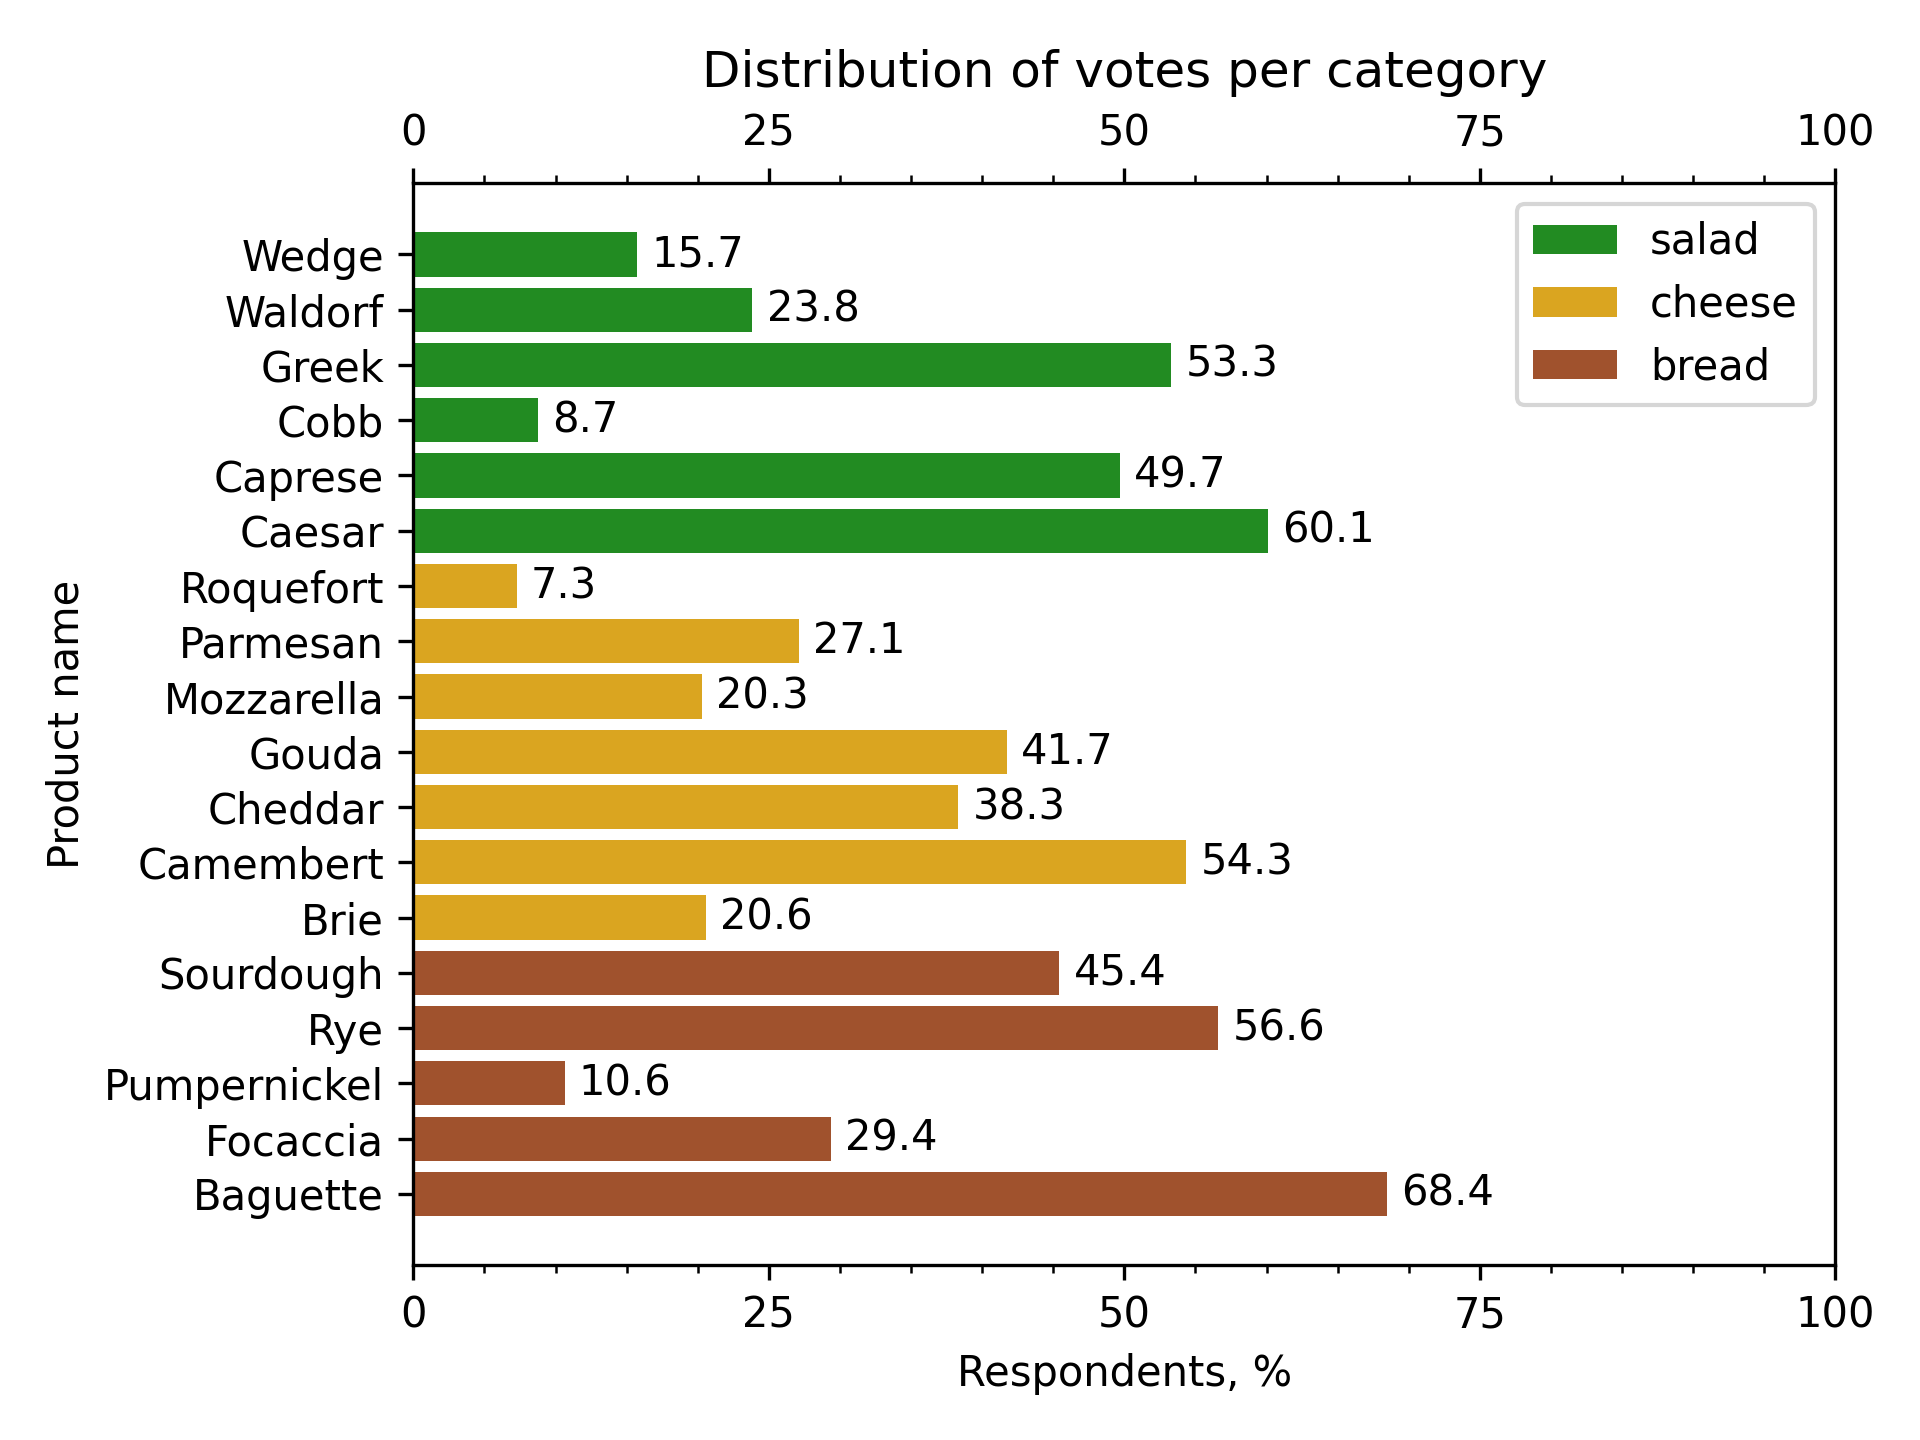
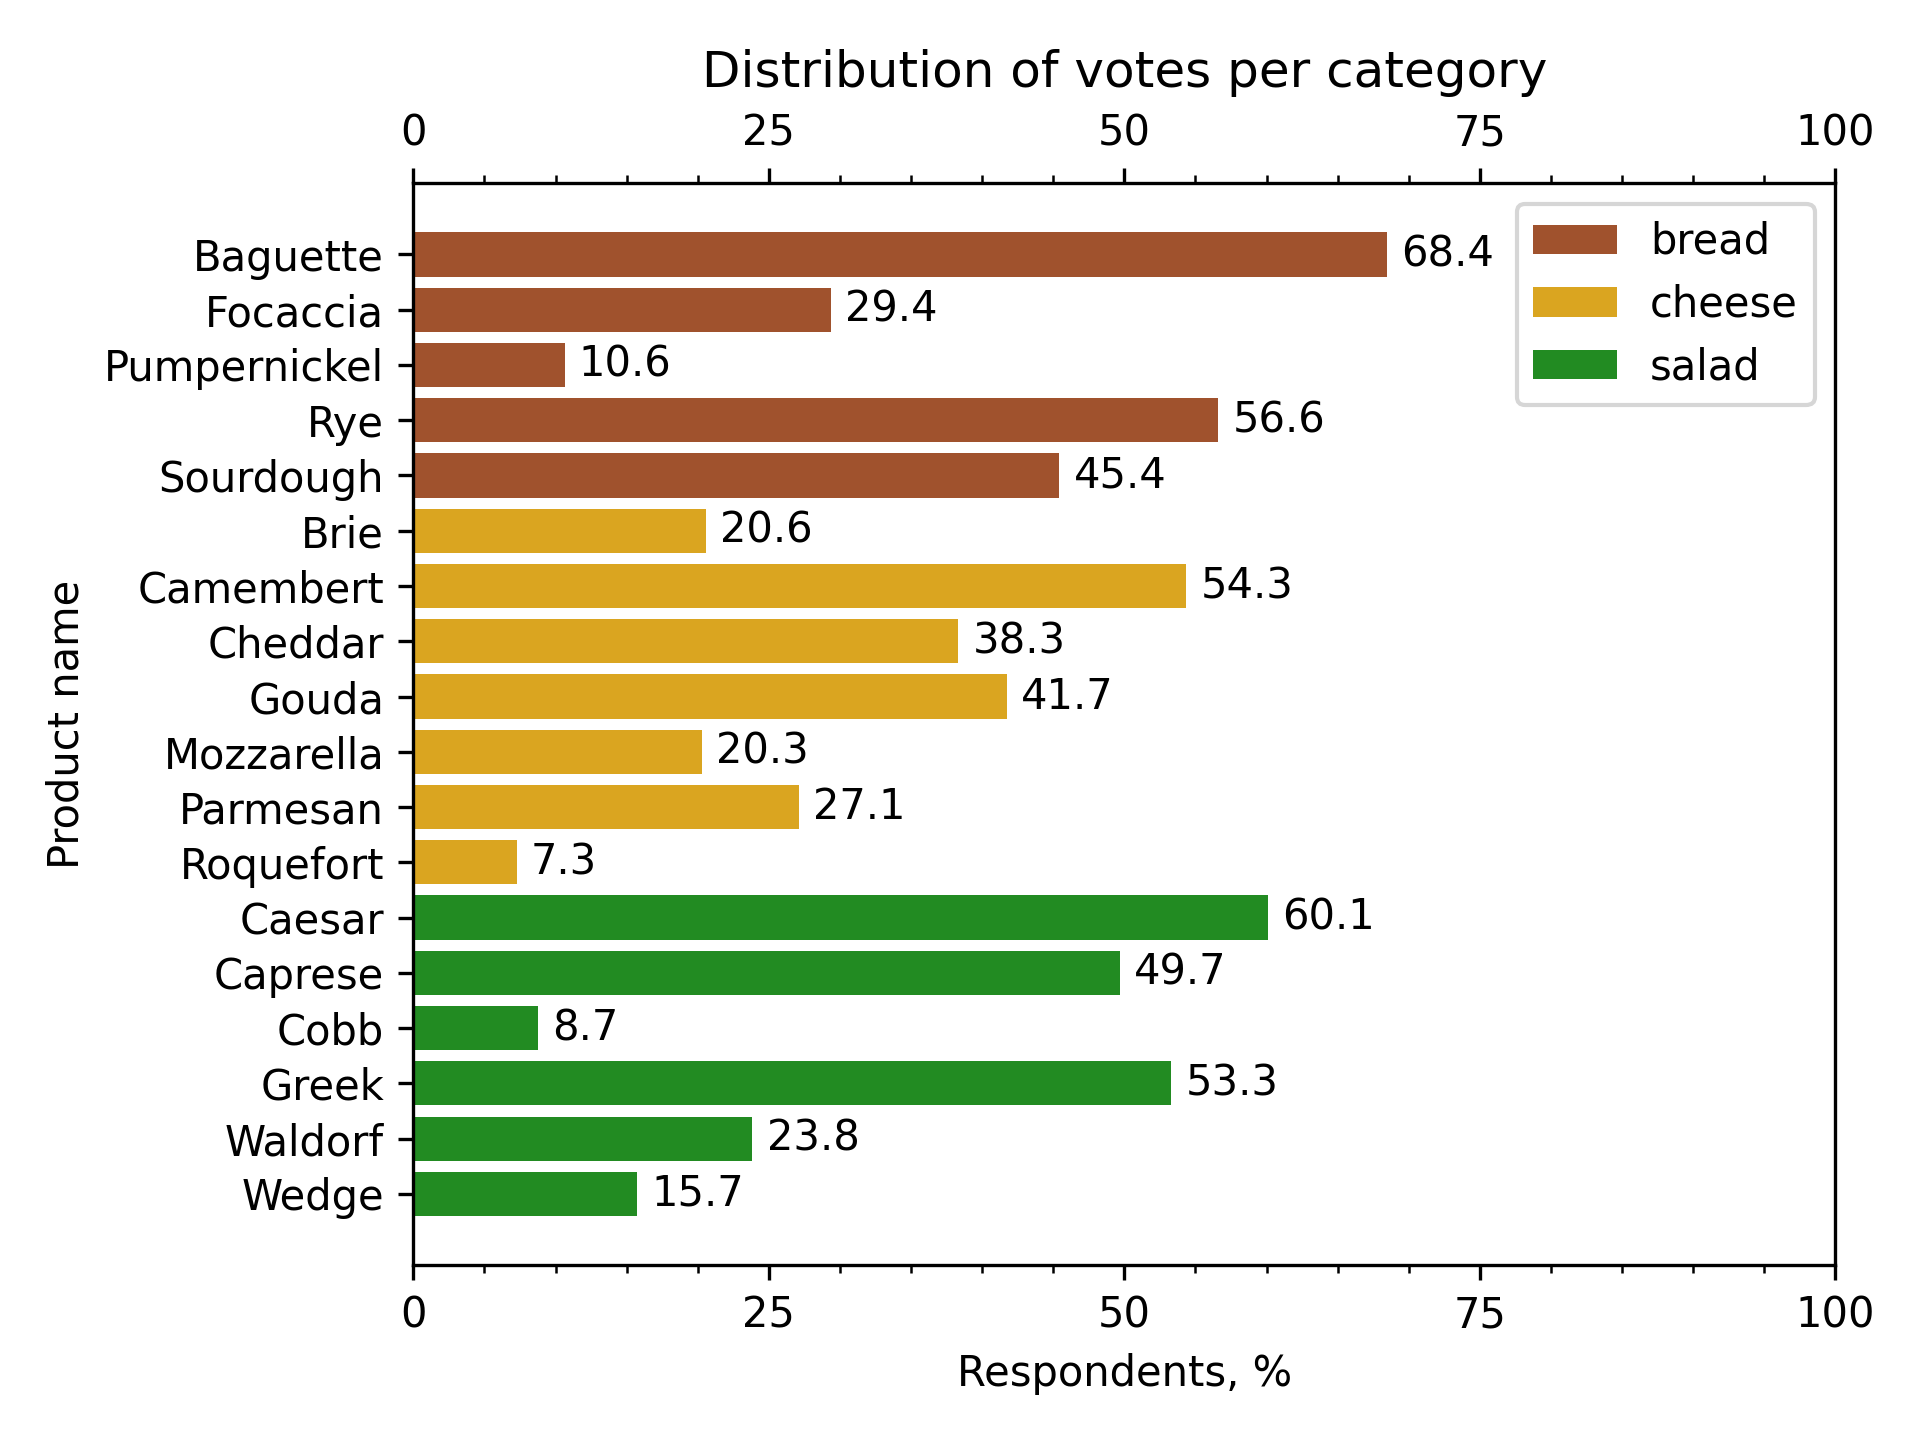
Module 2 fixes (#19)
* add: new plugin version .yaml edits...

* add: hint on how to import hidden functions in wnd module theory

* add: comments that tell not to edit main.py in seaborn theory, 2nd module

* fix: add additional files

* fix: different product order in seaborn and matplotlib practise lessons.

* fix: test for seaborn practise.
fix: code style.

* fix: sort votes and products correctly in data.py matplotlib base practice

* fix: add gif on importing hidden functions, change description a bit

* fix: enhance task description

* add: quiz at the end of the 2nd module overview

* add: quiz at the end of the 2nd module overview

* fix: left the order of categories in seaborn practice as it was

* fix: fix small issues

* style: fix ruff issues

---------

Changed region(s): [[0.0625, 0.1562, 0.9375, 0.8438], [0.7812, 0.2188, 0.9375, 0.2812]]

diff --git a/2_2_bar_and_pie_charts_matplotlib/2_practice/2_advanced_barplot/tests/test_task.py b/2_2_bar_and_pie_charts_matplotlib/2_practice/2_advanced_barplot/tests/test_task.py
@@ -24,12 +24,12 @@ class TestCase(BaseTestMixin):
         cls.fig = plot(data)
         cls.data = data
 
-        cls.categories = get_categories(cls.data)
+        cls.categories = list(reversed(get_categories(cls.data)))
 
         cls.category_colors = {
-            "bread": "sienna",
-            "cheese": "goldenrod",
             "salad": "forestgreen",
+            "cheese": "goldenrod",
+            "bread": "sienna",
         }
 
     def test_1_1_return_type(self):
@@ -51,7 +51,7 @@ class TestCase(BaseTestMixin):
 
     def test_2_1_bar_values(self):
         for i, category in enumerate(self.categories):
-            expected_positions = get_category_votes(self.data, category)
+            expected_positions = list(reversed(get_category_votes(self.data, category)))
             self.checkBarValues(self.fig.axes[0], expected_positions, container_number=i)
 
     def test_2_2_bar_position(self):
@@ -77,7 +77,7 @@ class TestCase(BaseTestMixin):
         expected_labels = []
         number_of_products = 0
         for category in self.categories:
-            expected_labels.extend(get_category_product_names(self.data, category))
+            expected_labels.extend(reversed(get_category_product_names(self.data, category)))
             number_of_products += get_category_size(self.data, category)
 
         self.checkTicks(self.fig.axes[0], list(range(number_of_products)), axis="y")
@@ -108,9 +108,16 @@ class TestCase(BaseTestMixin):
         self.checkNumberOfTextObjects(self.fig.axes[0], 18)
 
     def test_6_2_text_values(self):
-        expected_x = (self.data["votes"] + 1).to_list()
+        expected_x = []
+        expected_text = []
+
+        for category in self.categories:
+            expected_votes = list(reversed(get_category_votes(self.data, category)))
+            expected_x.extend(vote + 1 for vote in expected_votes)
+            expected_text.extend(f"{round(vote, 1)}" for vote in expected_votes)
+
         expected_y = list(range(self.data["product"].nunique()))
-        expected_text = self.data["votes"].apply(lambda x: f"{round(x, 1)}").to_list()
+
         self.checkTextObjects(self.fig.axes[0], list(zip(expected_x, expected_y, expected_text)))
 
     def test_7_1_legend(self):

diff --git a/2_2_bar_and_pie_charts_matplotlib/2_practice/1_base_barplot/tests/test_task.py b/2_2_bar_and_pie_charts_matplotlib/2_practice/1_base_barplot/tests/test_task.py
@@ -24,12 +24,12 @@ class TestCase(BaseTestMixin):
         cls.fig = plot(data)
         cls.data = data
 
-        cls.categories = get_categories(cls.data)
+        cls.categories = list(reversed(get_categories(cls.data)))
 
         cls.category_colors = {
-            "bread": "sienna",
-            "cheese": "goldenrod",
             "salad": "forestgreen",
+            "cheese": "goldenrod",
+            "bread": "sienna",
         }
 
     def test_1_1_return_type(self):
@@ -51,7 +51,7 @@ class TestCase(BaseTestMixin):
 
     def test_2_1_bar_values(self):
         for i, category in enumerate(self.categories):
-            expected_positions = get_category_votes(self.data, category)
+            expected_positions = list(reversed(get_category_votes(self.data, category)))
             self.checkBarValues(self.fig.axes[0], expected_positions, container_number=i)
 
     def test_2_2_bar_position(self):
@@ -77,7 +77,7 @@ class TestCase(BaseTestMixin):
         expected_labels = []
         number_of_products = 0
         for category in self.categories:
-            expected_labels.extend(get_category_product_names(self.data, category))
+            expected_labels.extend(reversed(get_category_product_names(self.data, category)))
             number_of_products += get_category_size(self.data, category)
 
         self.checkTicks(self.fig.axes[0], list(range(number_of_products)), axis="y")

diff --git a/2_2_bar_and_pie_charts_matplotlib/2_practice/1_base_barplot/data.py b/2_2_bar_and_pie_charts_matplotlib/2_practice/1_base_barplot/data.py
@@ -10,17 +10,17 @@ def read() -> pd.DataFrame:
 
 
 def preprocess(data: pd.DataFrame) -> pd.DataFrame:
-    preprocessed_data = data.groupby(["category", "product"]).count() / data["participant"].nunique() * 100
+    preprocessed_data = data.groupby(["category", "product"], sort=False).count() / data["participant"].nunique() * 100
     preprocessed_data = preprocessed_data.rename(columns={"participant": "votes"})
     return preprocessed_data.reset_index()
 
 
-def get_category_votes(data: pd.DataFrame, category: str) -> pd.Series:
-    return data[data["category"] == category]["votes"]
+def get_category_votes(data: pd.DataFrame, category: str) -> List:
+    return data[data["category"] == category].sort_values(by="product")["votes"].to_list()
 
 
-def get_category_product_names(data: pd.DataFrame, category: str) -> pd.DataFrame:
-    return data[data["category"] == category]["product"]
+def get_category_product_names(data: pd.DataFrame, category: str) -> List:
+    return data[data["category"] == category]["product"].sort_values().to_list()
 
 
 def get_category_size(data: pd.DataFrame, category: str) -> int:

diff --git a/2_2_bar_and_pie_charts_matplotlib/2_practice/2_advanced_barplot/data.py b/2_2_bar_and_pie_charts_matplotlib/2_practice/2_advanced_barplot/data.py
@@ -10,17 +10,17 @@ def read() -> pd.DataFrame:
 
 
 def preprocess(data: pd.DataFrame) -> pd.DataFrame:
-    preprocessed_data = data.groupby(["category", "product"]).count() / data["participant"].nunique() * 100
+    preprocessed_data = data.groupby(["category", "product"], sort=False).count() / data["participant"].nunique() * 100
     preprocessed_data = preprocessed_data.rename(columns={"participant": "votes"})
     return preprocessed_data.reset_index()
 
 
-def get_category_votes(data: pd.DataFrame, category: str) -> pd.Series:
-    return data[data["category"] == category]["votes"]
+def get_category_votes(data: pd.DataFrame, category: str) -> List:
+    return data[data["category"] == category].sort_values(by="product")["votes"].to_list()
 
 
-def get_category_product_names(data: pd.DataFrame, category: str) -> pd.DataFrame:
-    return data[data["category"] == category]["product"]
+def get_category_product_names(data: pd.DataFrame, category: str) -> List:
+    return data[data["category"] == category]["product"].sort_values().to_list()
 
 
 def get_category_size(data: pd.DataFrame, category: str) -> int:

diff --git a/2_2_bar_and_pie_charts_matplotlib/2_practice/2_advanced_barplot/task.py b/2_2_bar_and_pie_charts_matplotlib/2_practice/2_advanced_barplot/task.py
@@ -5,7 +5,7 @@ from data import get_categories, get_category_product_names, get_category_size, 
 
 
 def plot_category(ax: plt.Axes, votes: pd.DataFrame, category: str, color: str, offset: int = 0):
-    category_votes = get_category_votes(votes, category)
+    category_votes = list(reversed(get_category_votes(votes, category)))
     category_size = get_category_size(votes, category)
 
     positions = [x + offset for x in range(category_size)]
@@ -34,12 +34,12 @@ def plot(votes: pd.DataFrame) -> plt.Figure:
     y_tick_labels = []
 
     offset = 0
-    for category in get_categories(votes):
+    for category in reversed(get_categories(votes)):
         category_size = get_category_size(votes, category)
 
         plot_category(ax, votes, category, colors[category], offset)
 
-        y_tick_labels.extend(get_category_product_names(votes, category))
+        y_tick_labels.extend(reversed(get_category_product_names(votes, category)))
         y_tick_coordinates.extend([x + offset for x in range(category_size)])
 
         offset += category_size

diff --git a/2_2_bar_and_pie_charts_matplotlib/2_practice/1_base_barplot/task.py b/2_2_bar_and_pie_charts_matplotlib/2_practice/1_base_barplot/task.py
@@ -5,7 +5,7 @@ from data import get_categories, get_category_product_names, get_category_size, 
 
 
 def plot_category(ax: plt.Axes, votes: pd.DataFrame, category: str, color: str, offset: int = 0):
-    category_votes = get_category_votes(votes, category)
+    category_votes = list(reversed(get_category_votes(votes, category)))
     category_size = get_category_size(votes, category)
 
     ax.barh(
@@ -29,12 +29,12 @@ def plot(votes: pd.DataFrame) -> plt.Figure:
     y_tick_labels = []
 
     offset = 0
-    for category in get_categories(votes):
+    for category in reversed(get_categories(votes)):
         category_size = get_category_size(votes, category)
 
         plot_category(ax, votes, category, colors[category], offset)
 
-        y_tick_labels.extend(get_category_product_names(votes, category))
+        y_tick_labels.extend(reversed(get_category_product_names(votes, category)))
         y_tick_coordinates.extend([x + offset for x in range(category_size)])
 
         offset += category_size

diff --git a/2_1_bar_and_pie_charts_seaborn/2_practice/1_base/tests/test_task.py b/2_1_bar_and_pie_charts_seaborn/2_practice/1_base/tests/test_task.py
@@ -47,7 +47,9 @@ class PlotTestCase(BaseTestMixin):
 
     def test_2_2_bar_position(self):
         for i, category in enumerate(self.data["category"].unique()):
-            expected_values = self.data[self.data["category"] == category].groupby("product", sort=False).size()
+            expected_values = (
+                self.data[self.data["category"] == category].groupby("product", sort=False).size().sort_index()
+            )
             self.checkBarValues(self.fig.ax, expected_values.to_list(), container_number=i)
 
     def test_2_3_bar_labels(self):

diff --git a/2_1_bar_and_pie_charts_seaborn/2_practice/1_base/data.py b/2_1_bar_and_pie_charts_seaborn/2_practice/1_base/data.py
@@ -11,5 +11,8 @@ def read() -> pd.DataFrame:
 
 def get_product_order(data: pd.DataFrame) -> List:
     return (
-        data.drop_duplicates(subset=["category", "product"]).sort_values("category", kind="stable")["product"].to_list()
+        data.drop_duplicates(subset=["category", "product"])
+        .groupby("category", sort=False)
+        .apply(lambda group: group["product"].sort_values())
+        .to_list()
     )

diff --git a/2_1_bar_and_pie_charts_seaborn/1_theory/5_catplot_sales/task.py b/2_1_bar_and_pie_charts_seaborn/1_theory/5_catplot_sales/task.py
@@ -10,6 +10,7 @@ def plot(games: pd.DataFrame) -> sns.FacetGrid:
     return sns.catplot(data=games, x="platform", y="global_sales", kind="bar")
 
 
+# Please solve the task in the plot function and do not modify this one
 def main():
     games = read()
     games = preprocess(games)

diff --git a/2_1_bar_and_pie_charts_seaborn/1_theory/3_countplot_stats/task.py b/2_1_bar_and_pie_charts_seaborn/1_theory/3_countplot_stats/task.py
@@ -8,6 +8,7 @@ def plot(games: pd.DataFrame) -> sns.FacetGrid:
     return sns.catplot(data=games, y="platform", stat="percent", kind="count")
 
 
+# Please solve the task in the plot function and do not modify this one
 def main():
     games = read()
     games = preprocess(games)

diff --git a/2_1_bar_and_pie_charts_seaborn/1_theory/1_countplot/task.py b/2_1_bar_and_pie_charts_seaborn/1_theory/1_countplot/task.py
@@ -8,6 +8,7 @@ def plot(games: pd.DataFrame) -> sns.FacetGrid:
     return sns.catplot(data=games, x="platform", kind="count")
 
 
+# Please solve the task in the plot function and do not modify this one
 def main():
     games = read()
     games = preprocess(games)

diff --git a/2_1_bar_and_pie_charts_seaborn/1_theory/2_countplot_layout/task.py b/2_1_bar_and_pie_charts_seaborn/1_theory/2_countplot_layout/task.py
@@ -8,6 +8,7 @@ def plot(games: pd.DataFrame) -> sns.FacetGrid:
     return sns.catplot(data=games, y="platform", kind="count")
 
 
+# Please solve the task in the plot function and do not modify this one
 def main():
     games = read()
     games = preprocess(games)
